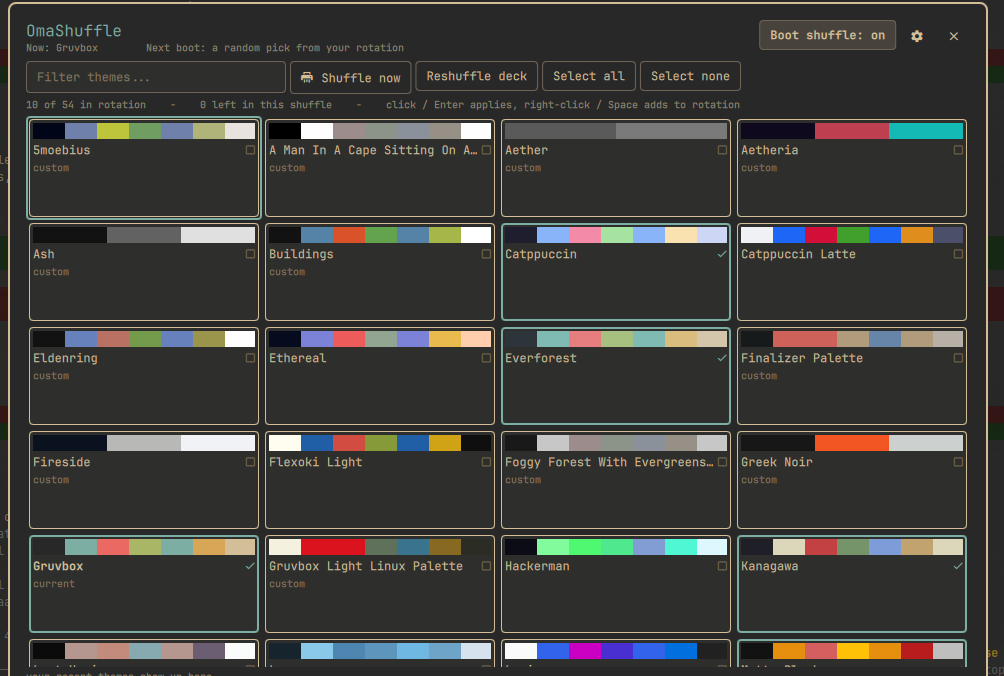
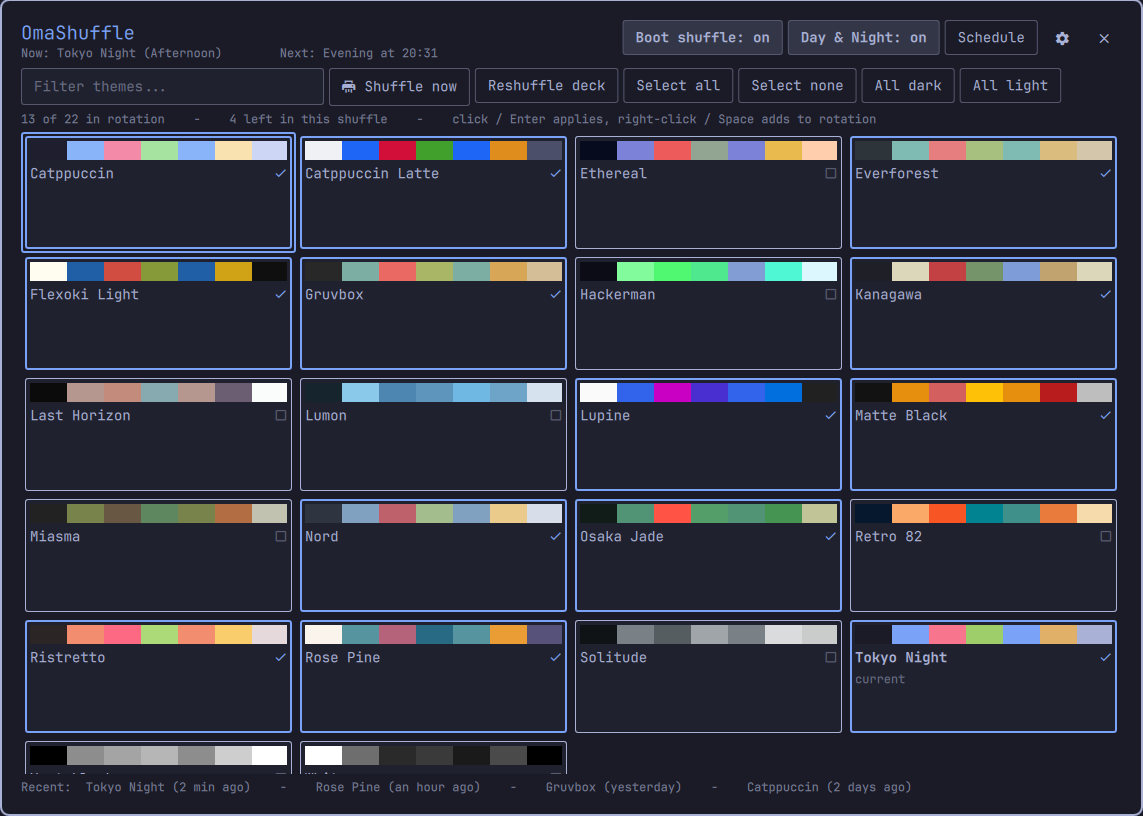
Refresh screenshots; add the Schedule tab shot
Re-shot the picker and settings pane with the current UI (Day & Night and
Schedule controls in the header, All dark / All light buttons) and added
screenshots/schedule.png for the new tab. preview.png regenerated to match.

Claude-Session: https://claude.ai/code/session_01Vsr39FGhWM9YGWubR1aPdn

diff --git a/README.md b/README.md
@@ -19,7 +19,7 @@ the sun's up, a dark one once it's down.
 
 <br><br>
 
-<img src="screenshots/picker.png" alt="The OmaShuffle picker: a grid of every installed theme with palette swatches, some ticked into the rotation" width="860">
+<img src="screenshots/picker.png" alt="The OmaShuffle picker: a grid of every installed theme with palette swatches, some ticked into the rotation; the header carries Boot shuffle, Day & Night and Schedule controls" width="860">
 
 </div>
 
@@ -63,6 +63,8 @@ command) whenever the deck deals you something you're not in the mood for.
 An independent, opt-in (off by default) alternative to boot shuffle: instead
 of one theme per boot, OmaShuffle switches by time of day. Turn it on from
 the **Schedule** tab.
+
+<img src="screenshots/schedule.png" alt="The OmaShuffle Schedule tab: a Switch themes by time of day toggle, a manual latitude/longitude location, and three slots (Day, Afternoon, Evening) each with a light/dark mode, a sunrise/sunset anchor, and a minute offset" width="760">
 
 - **Slots.** Two by default — *Day* (a light theme, from sunrise) and
   *Night* (a dark theme, from sunset) — each with its own no-repeat deck, so
